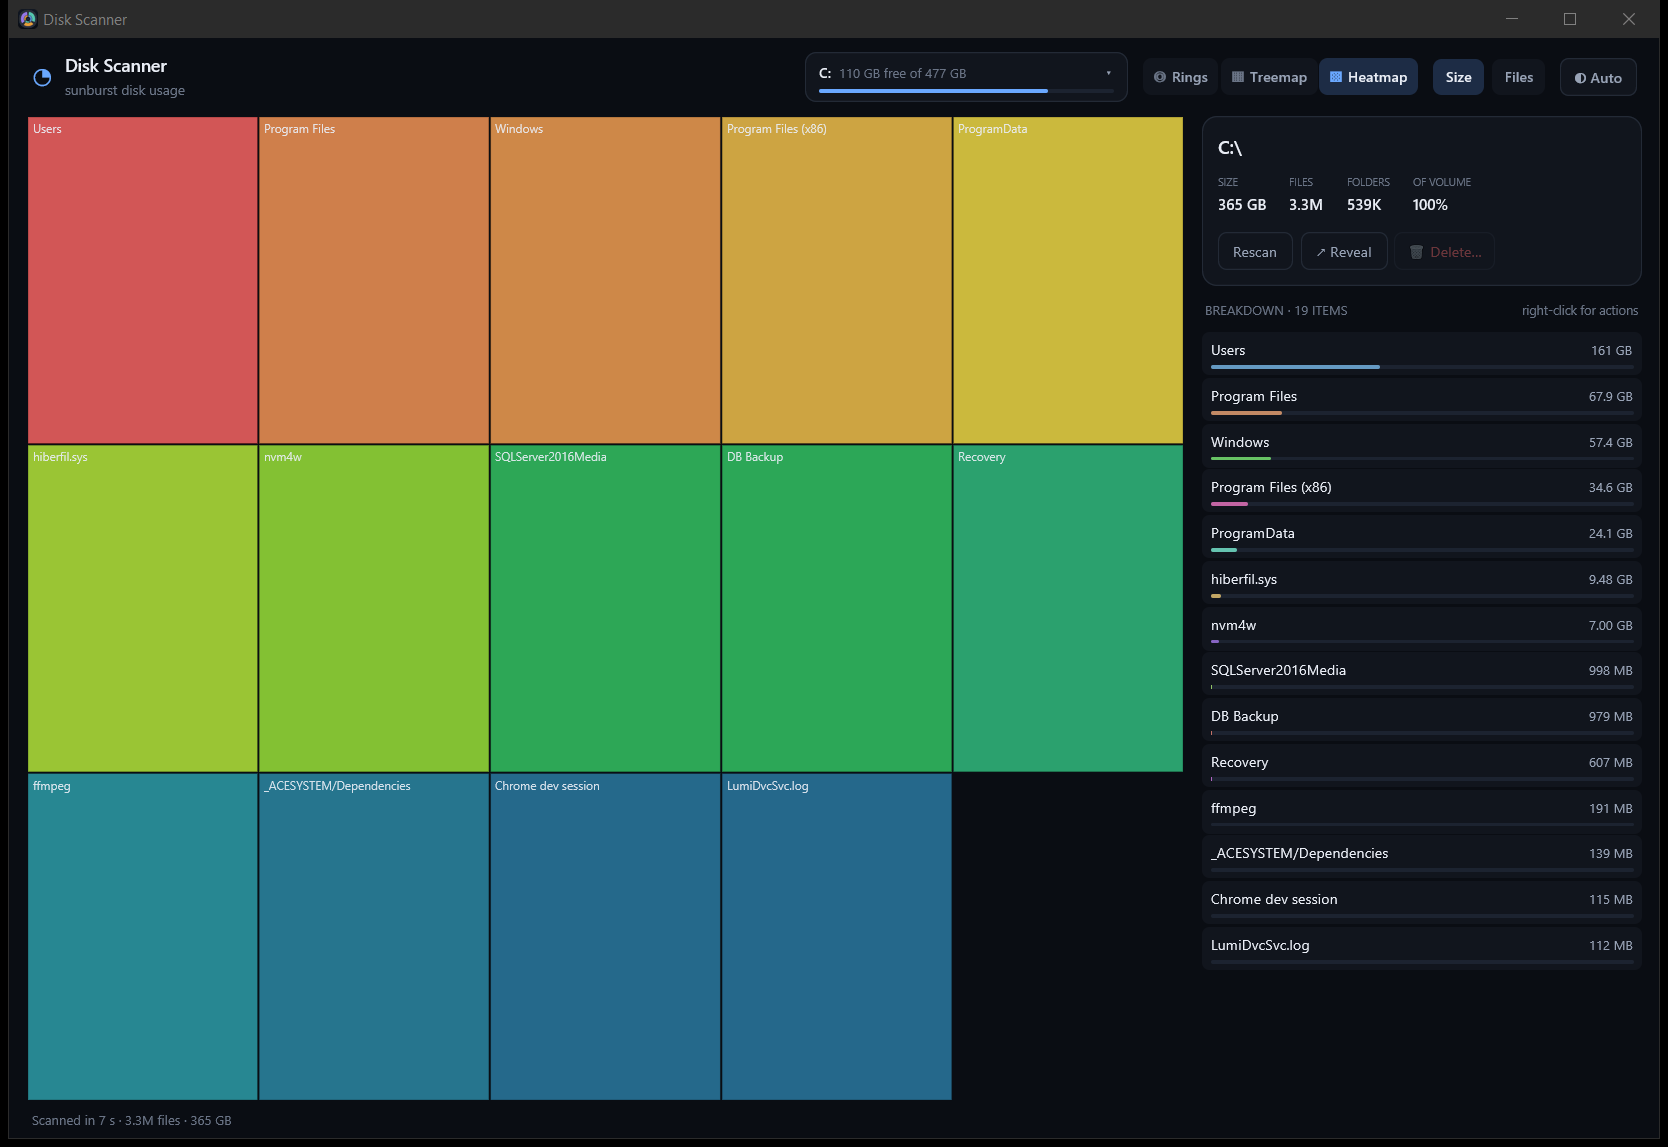
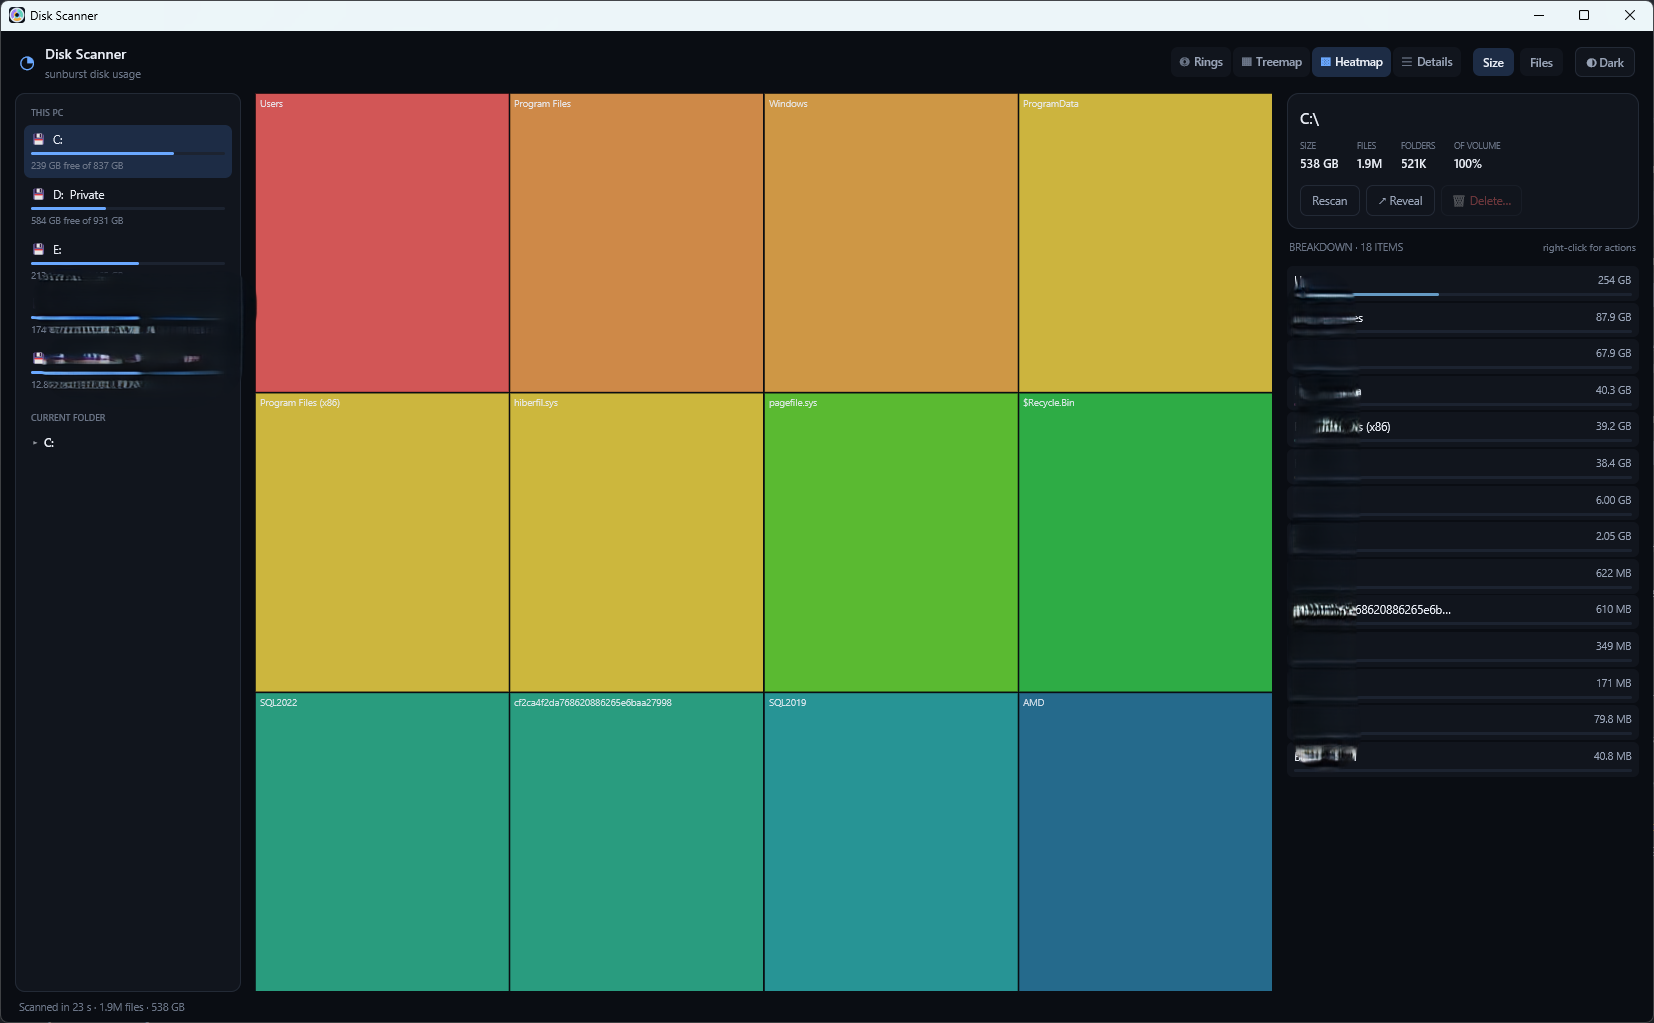
feat: add Details section to README and include details screenshot

diff --git a/README.md b/README.md
@@ -8,9 +8,9 @@ and a sortable details table.
 
 ![Disk Scanner](docs/screenshot.png)
 
-| Sunburst | Treemap | Heatmap |
-| --- | --- | --- |
-| ![Sunburst](docs/screenshot.png) | ![Treemap](docs/treemap.png) | ![Heatmap](docs/heatmap.png) |
+| Sunburst | Treemap | Heatmap | Details |
+| --- | --- | --- | --- |
+| ![Sunburst](docs/screenshot.png) | ![Treemap](docs/treemap.png) | ![Heatmap](docs/heatmap.png) | ![Details](docs/details.png) |
 
 ## Download
 
